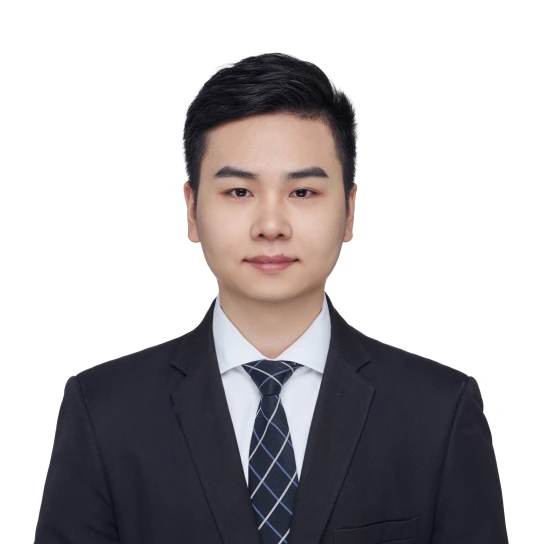
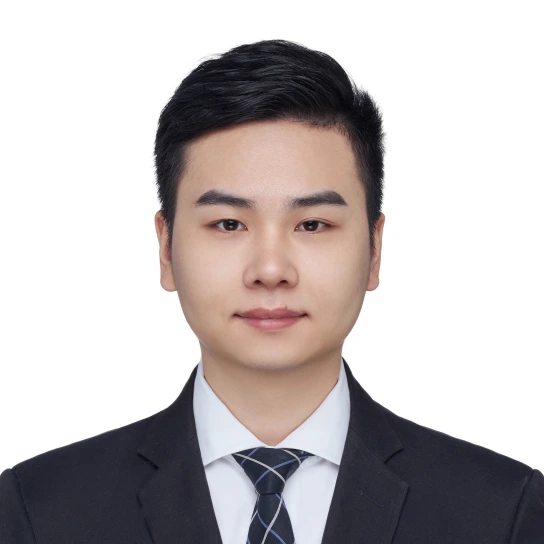
Tighten homepage portrait crop

diff --git a/index.html b/index.html
@@ -20,7 +20,7 @@
   <div class="page" id="top">
     <header class="profile inset">
       <div class="profile-photo">
-        <img src="images/tianhao-peng-portrait.webp" alt="Tianhao Peng" width="544" height="544">
+        <img src="images/tianhao-peng-portrait.webp?v=2" alt="Tianhao Peng" width="544" height="544">
       </div>
       <div class="profile-copy">
         <h1>Tianhao Peng</h1>
